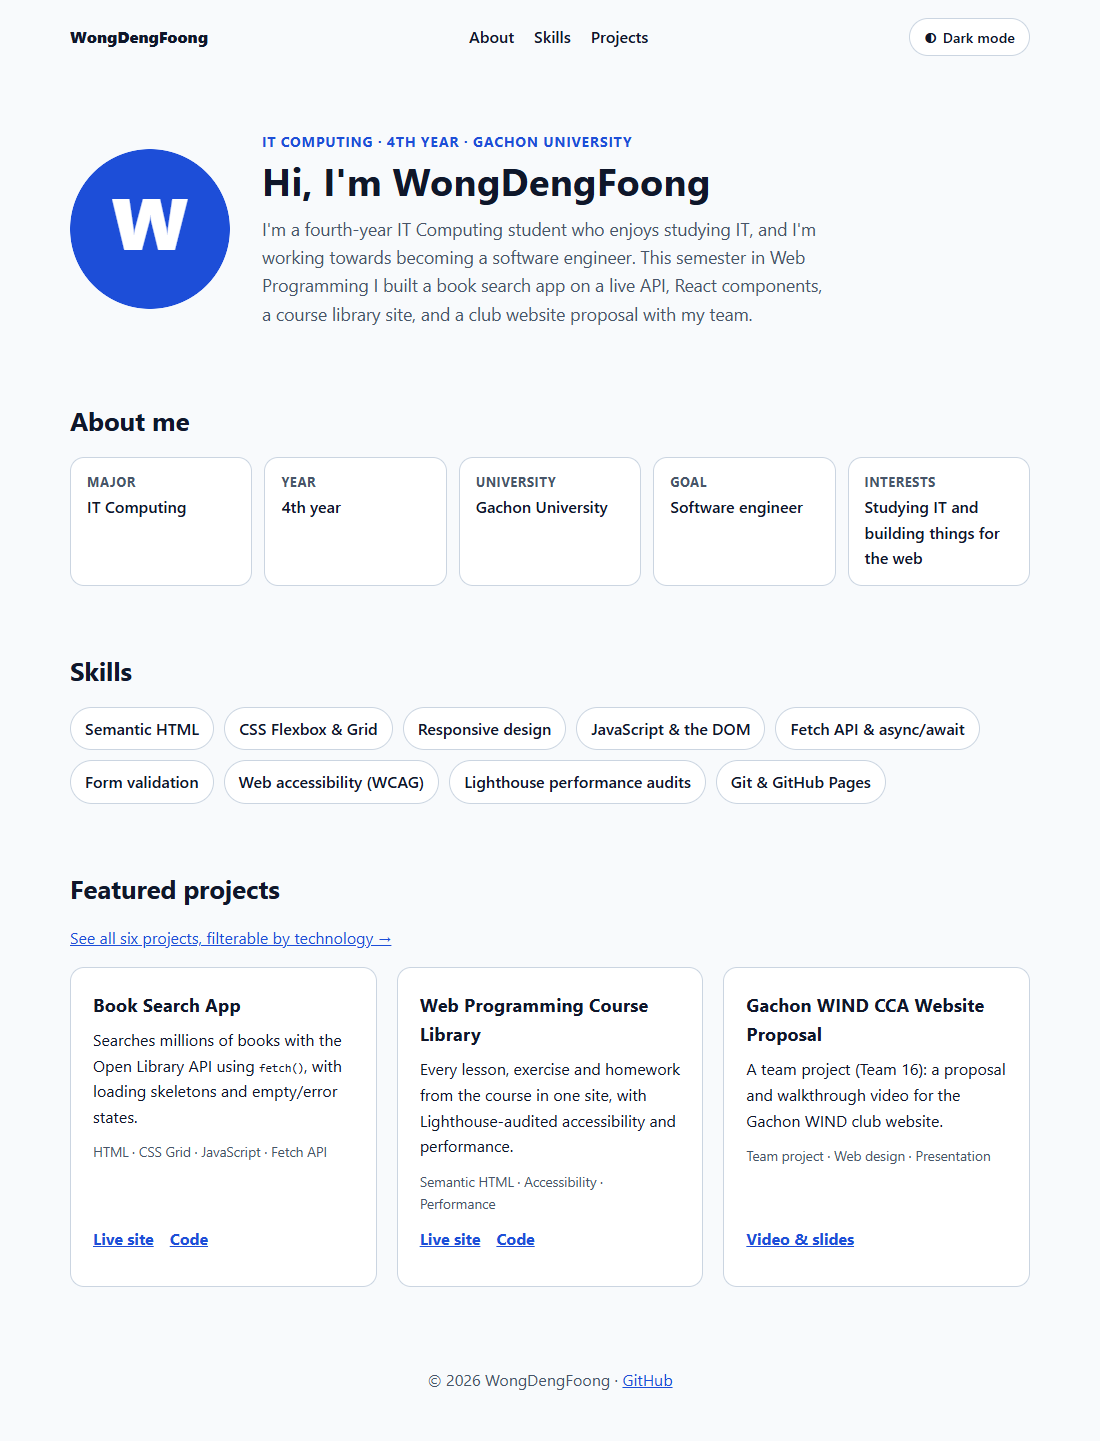
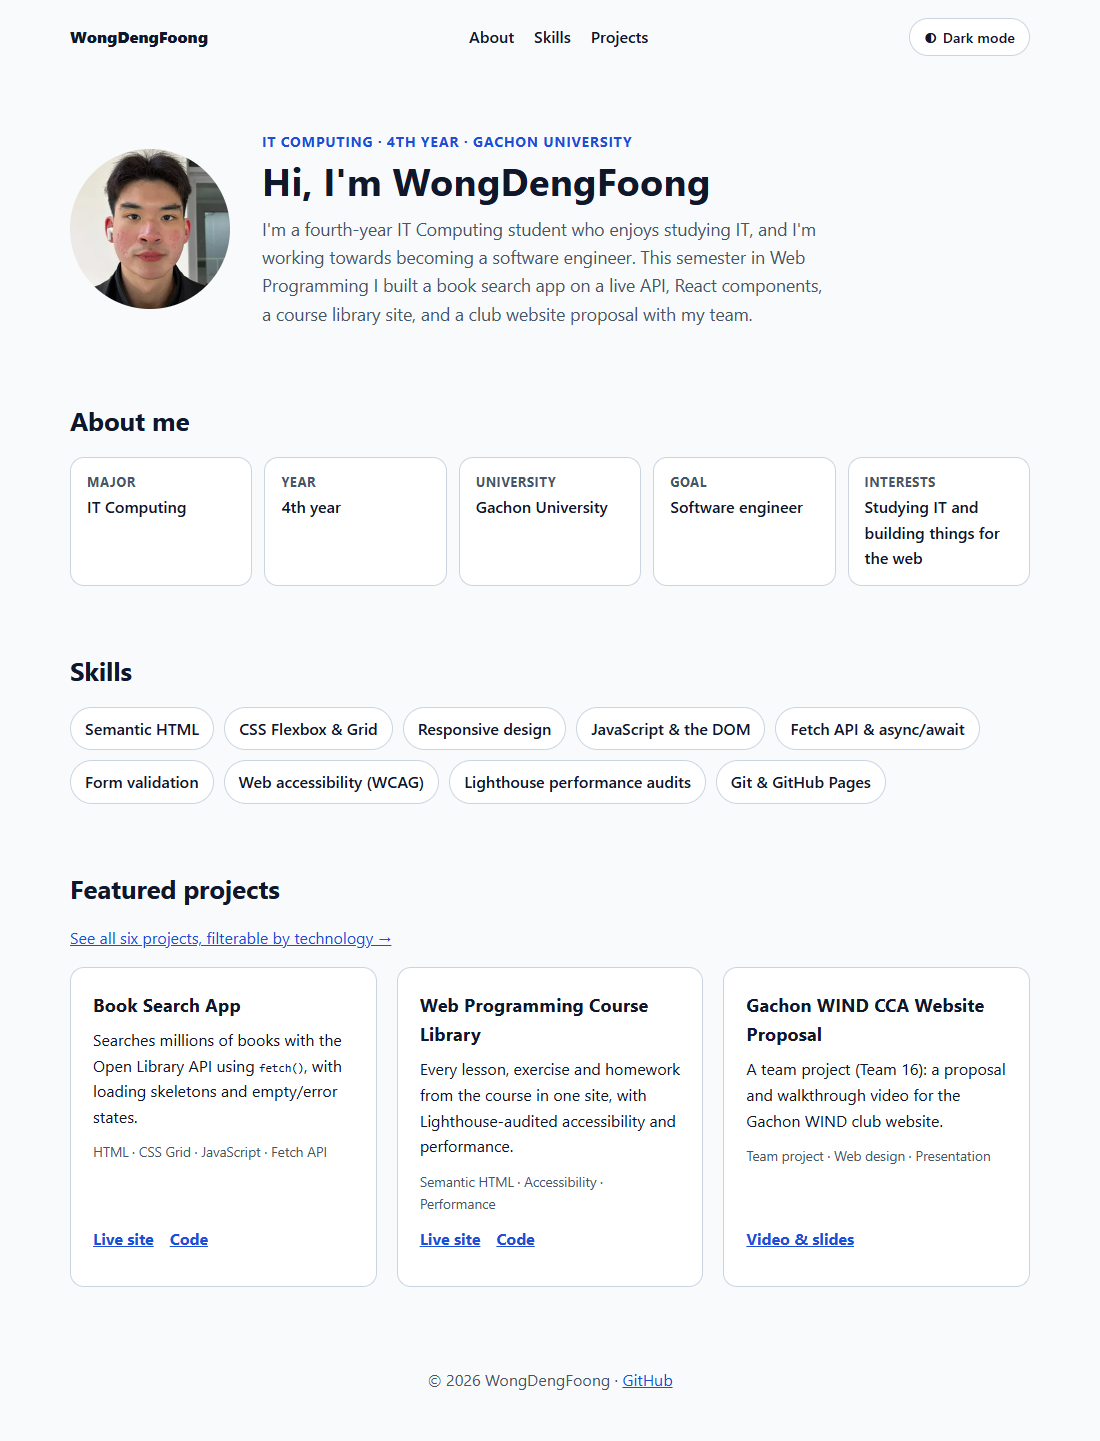
Update Week 10 portfolio reports for my profile photo

Changed region(s): [[0.0618, 0.0937, 0.2164, 0.2186]]

diff --git a/Week 10_1/homework_portfolio_repo.html b/Week 10_1/homework_portfolio_repo.html
@@ -57,7 +57,7 @@
       </tbody>
     </table>
     <figure>
-      <img src="captures/portfolio-live-desktop.png" alt="The live portfolio home page: header with navigation and a dark mode button, a hero with a W placeholder picture and a bio, an About me section (IT Computing, 4th year, Gachon University, goal: software engineer), skill tags, and featured projects" width="1100" height="1441" loading="lazy">
+      <img src="captures/portfolio-live-desktop.png" alt="The live portfolio home page: header with navigation and a dark mode button, a hero with my photo and a bio, an About me section (IT Computing, 4th year, Gachon University, goal: software engineer), skill tags, and featured projects" width="1100" height="1441" loading="lazy">
       <figcaption>The live home page</figcaption>
     </figure>
     <figure>
@@ -67,7 +67,8 @@
 
     <h2>Commits</h2>
     <p>Each commit is one real step. The mobile fix came from measuring: before it, the page was 492 px wide on a 390 px phone.</p>
-<pre><code>8555e87 Add a Projects page listing all six projects with a technology filter
+<pre><code>5eafcba Replace the placeholder with my profile photo
+8555e87 Add a Projects page listing all six projects with a technology filter
 a52572e Add my major, year and goal, and an About me section
 970e3fb Show my name, WongDengFoong, instead of my GitHub username
 b78c3ab Add dark mode toggle that remembers the visitor's choice
@@ -81,7 +82,7 @@ bcd29c9 Add hero section with name, profile picture and short bio
     <table>
       <tbody>
         <tr><td>Name</td><td>WongDengFoong</td></tr>
-        <tr><td>Photo</td><td>A placeholder "W" picture (<code>images/avatar.svg</code>). Replace it with a real photo.</td></tr>
+        <tr><td>Photo</td><td>My photo (<code>images/profile.webp</code>, 320 × 320, 8 KB, shown in a circle)</td></tr>
         <tr><td>Bio</td><td>Fourth-year IT Computing student who enjoys studying IT and is working towards becoming a software engineer</td></tr>
         <tr><td>About me</td><td>Major, year, university, goal, and interests</td></tr>
         <tr><td>Skills</td><td>Nine skills covered in the course</td></tr>

diff --git a/Week 10_2/homework_portfolio_deploy.html b/Week 10_2/homework_portfolio_deploy.html
@@ -68,7 +68,7 @@
         <tr><td>2</td><td>Responsive CSS</td><td class="yes">Fits a 390 px phone exactly (it was 492 px before the mobile fix)</td></tr>
         <tr><td>3</td><td>At least 1 JS interaction</td><td class="yes">Dark mode toggle: follows the system setting, remembers the choice, works with the keyboard, reports its state with <code>aria-pressed</code></td></tr>
         <tr><td>4</td><td>Lighthouse Accessibility ≥ 90 (screenshot)</td><td class="yes">100 (performance also 100 on mobile)</td></tr>
-        <tr><td>5</td><td>All images have meaningful alt text</td><td class="yes">The only image's alt says what it is: a placeholder "W" picture</td></tr>
+        <tr><td>5</td><td>All images have meaningful alt text</td><td class="yes">My photo has <code>alt="Photo of WongDengFoong"</code>; Lighthouse's image-alt audit passes</td></tr>
         <tr><td>6</td><td>Colour contrast passes WCAG AA</td><td class="yes">Every text colour pair in both themes; the lowest is 6.41 : 1</td></tr>
       </tbody>
     </table>
